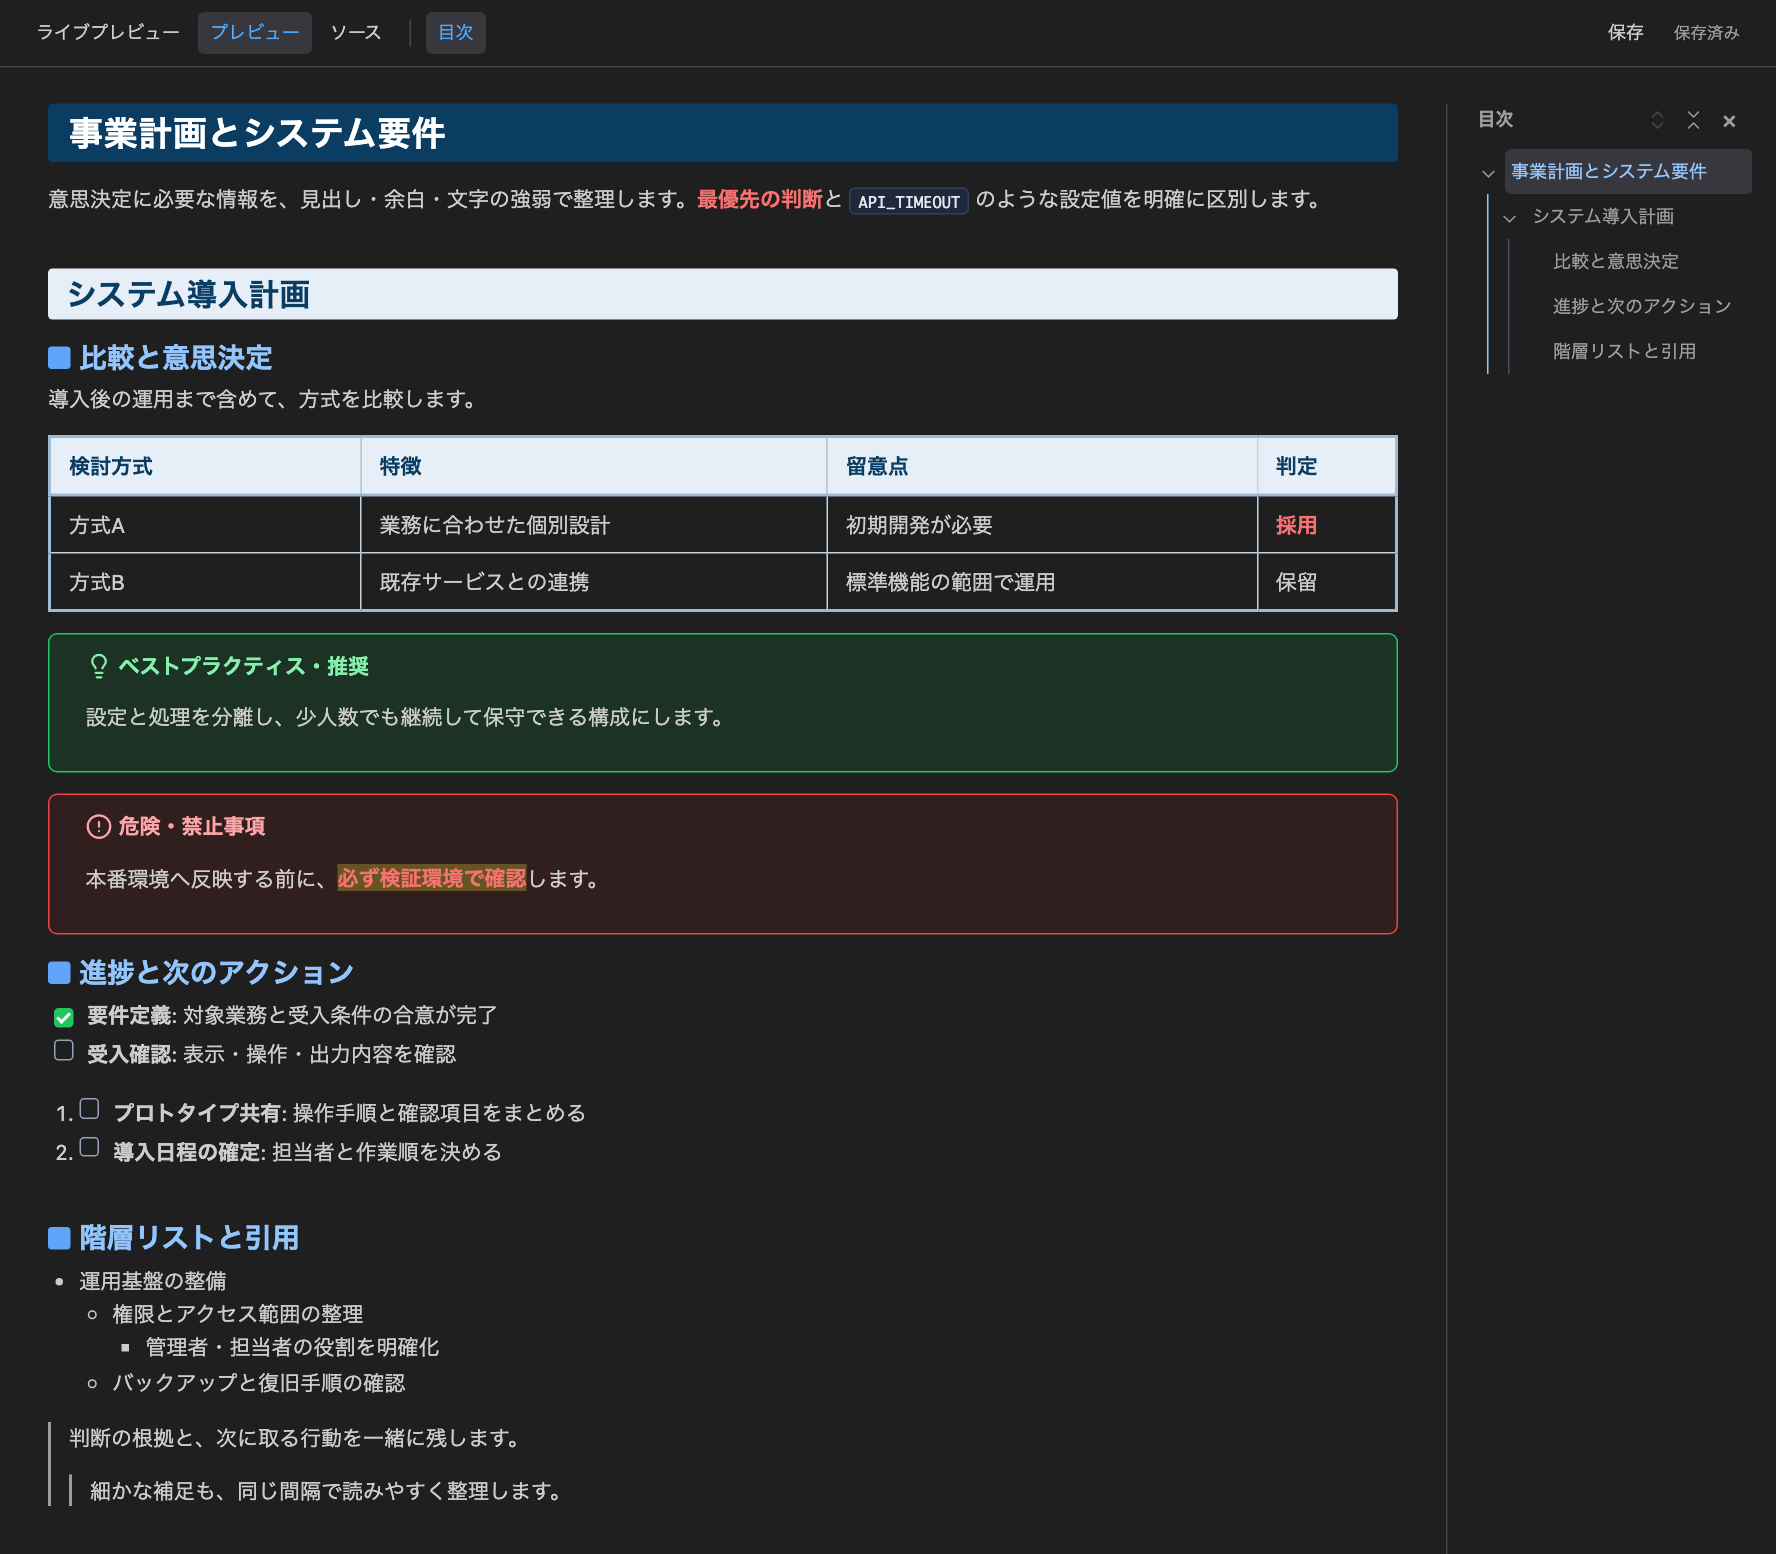
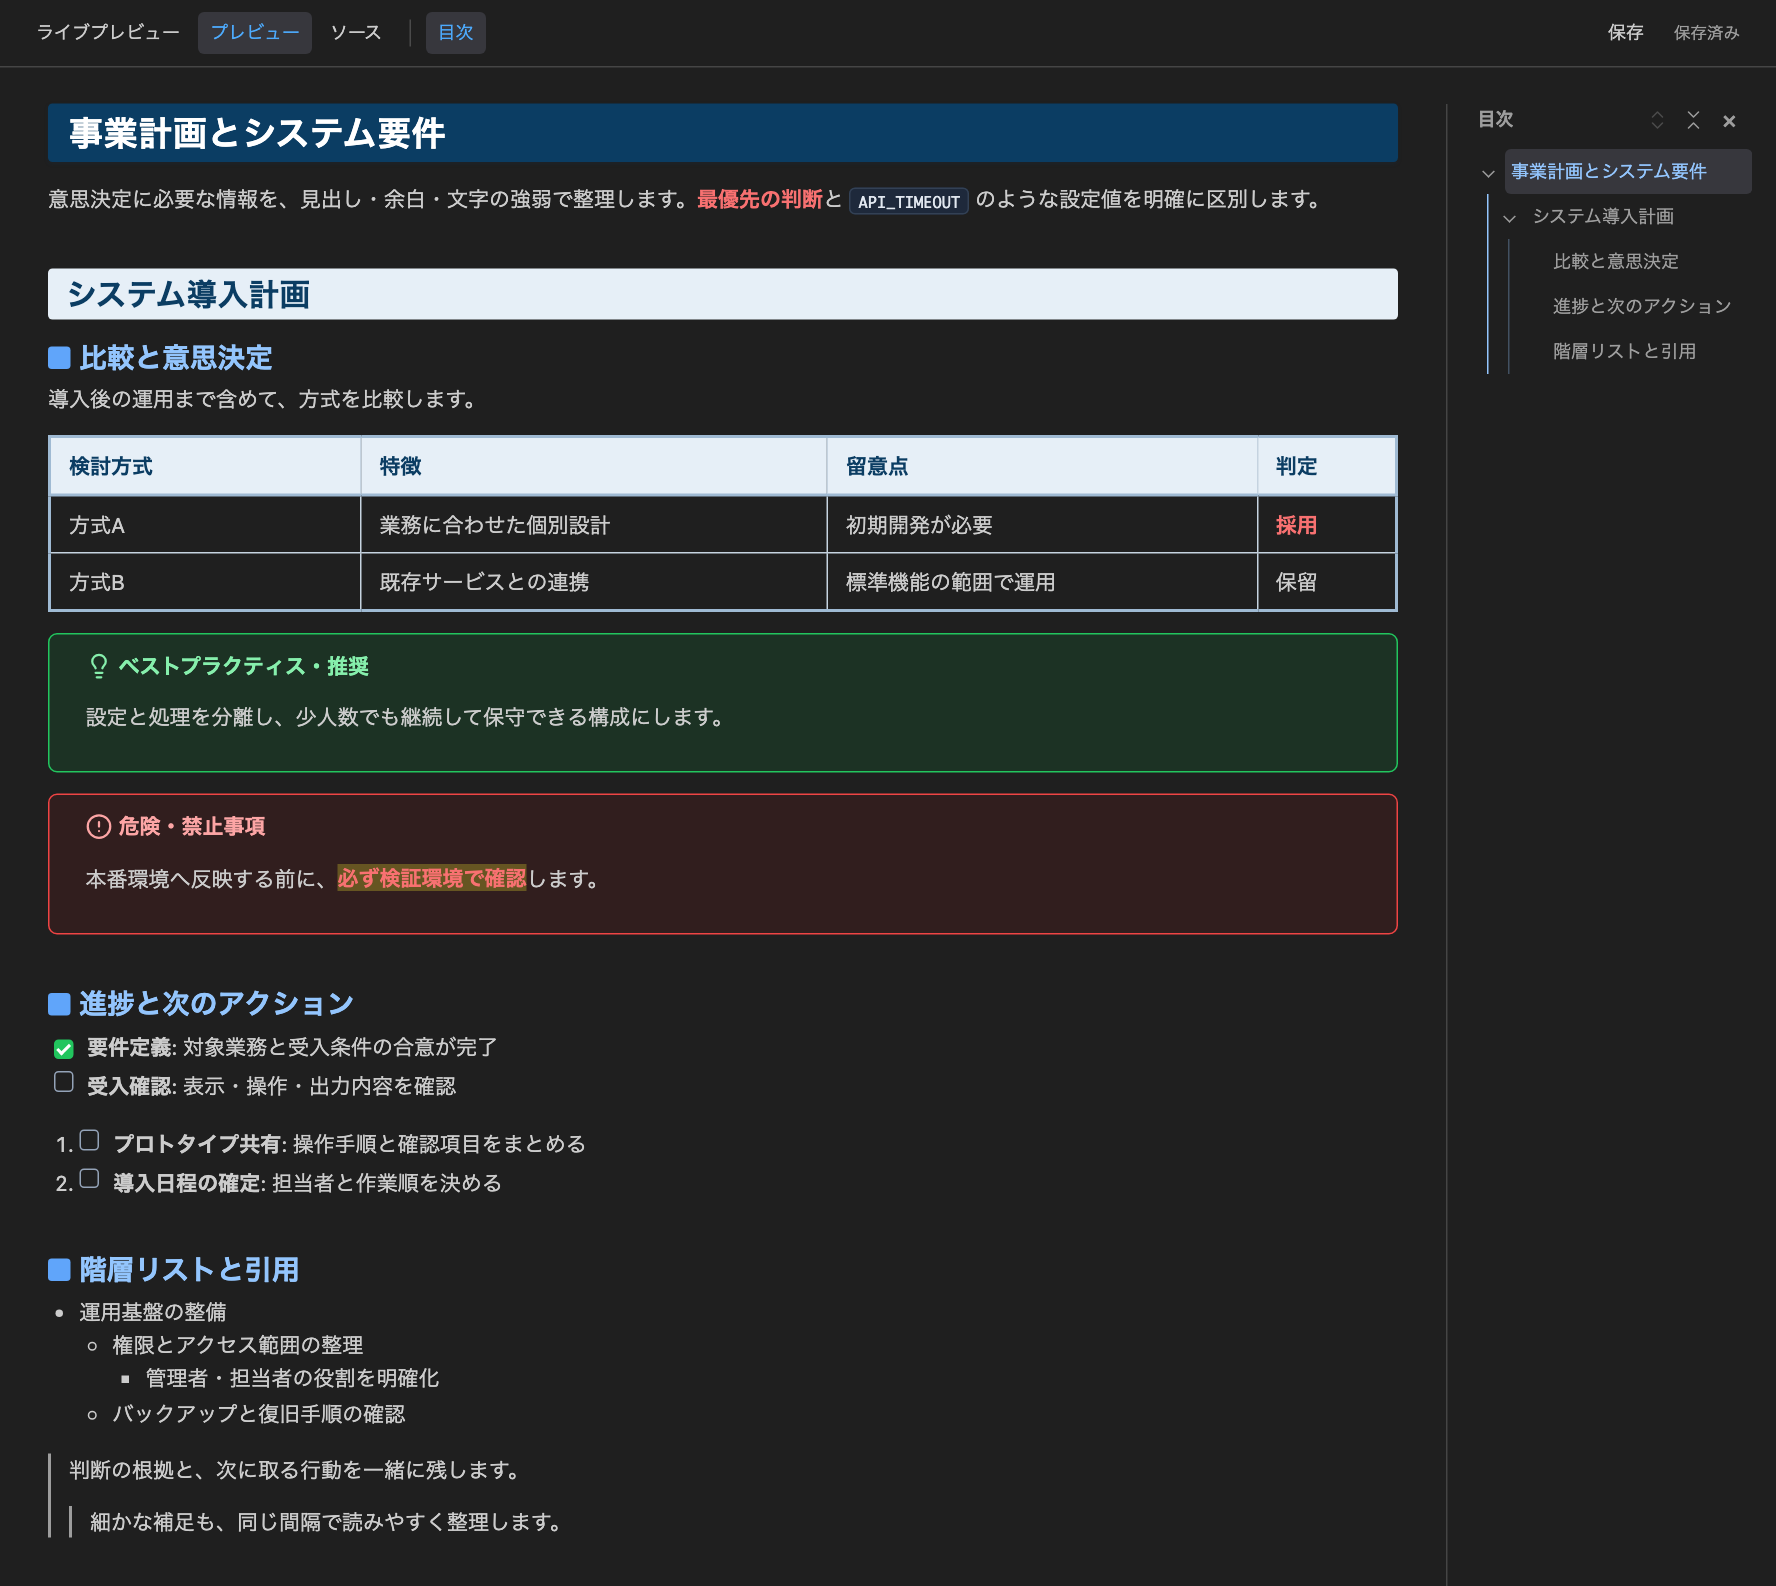
文書: 1.1.1の公開情報と共通テーマの取得元を更新

Changed region(s): [[0.031, 0.0618, 0.8052, 0.5869], [0.031, 0.6178, 0.3407, 0.9575], [0.8361, 0.0618, 0.96, 0.2471]]

diff --git a/README.md b/README.md
@@ -64,7 +64,7 @@ The first H1 stays compact even when preceded by text or properties. Later H1 he
 
 For a PDF with chapter page breaks, open the same Markdown in Obsidian with the Swak theme and use **Export to PDF**. The first body H1 does not force a page break; the second and subsequent body H1 headings start a new page, regardless of what appears before the first H1. The filename title does not count as a body H1. This extension does not provide a PDF export command. See the [Obsidian PDF guide](https://github.com/swak-inc/obsidian-theme-swak#chapter-spacing--pdf-export--章の余白とpdfエクスポート).
 
-See [1.1.0 release notes](CHANGELOG.md).
+See [1.1.1 release notes](CHANGELOG.md).
 
 **日本語**
 
@@ -72,7 +72,7 @@ See [1.1.0 release notes](CHANGELOG.md).
 
 章ごとに改ページしたPDFは、同じMarkdownをSwakテーマのObsidianで開き、「PDFにエクスポート」から出力します。**本文の最初のH1で強制改ページせず、2つ目以降のH1で改ページ**します。最初のH1より前の内容には依存しません。ファイル名タイトルは本文のH1として数えません。この拡張にはPDF出力コマンドはありません。[ObsidianのPDF出力ガイド](https://github.com/swak-inc/obsidian-theme-swak#chapter-spacing--pdf-export--章の余白とpdfエクスポート)を参照してください。
 
-[1.1.0の変更履歴](CHANGELOG.md)。
+[1.1.1の変更履歴](CHANGELOG.md)。
 
 ### Light / ライト
 

diff --git a/CHANGELOG.md b/CHANGELOG.md
@@ -1,6 +1,6 @@
 # Changelog / 変更履歴
 
-## Unreleased / 未公開
+## 1.1.1
 
 - Match heading spacing after callouts to paragraphs and tables in live, reading, and built-in previews, while keeping the opening H1 and adjacent headings compact. / ライブ・閲覧・標準プレビューでコールアウト後の見出し余白を本文・テーブル後と統一し、冒頭のH1と見出しが連続する箇所はコンパクトに保ちます。
 
